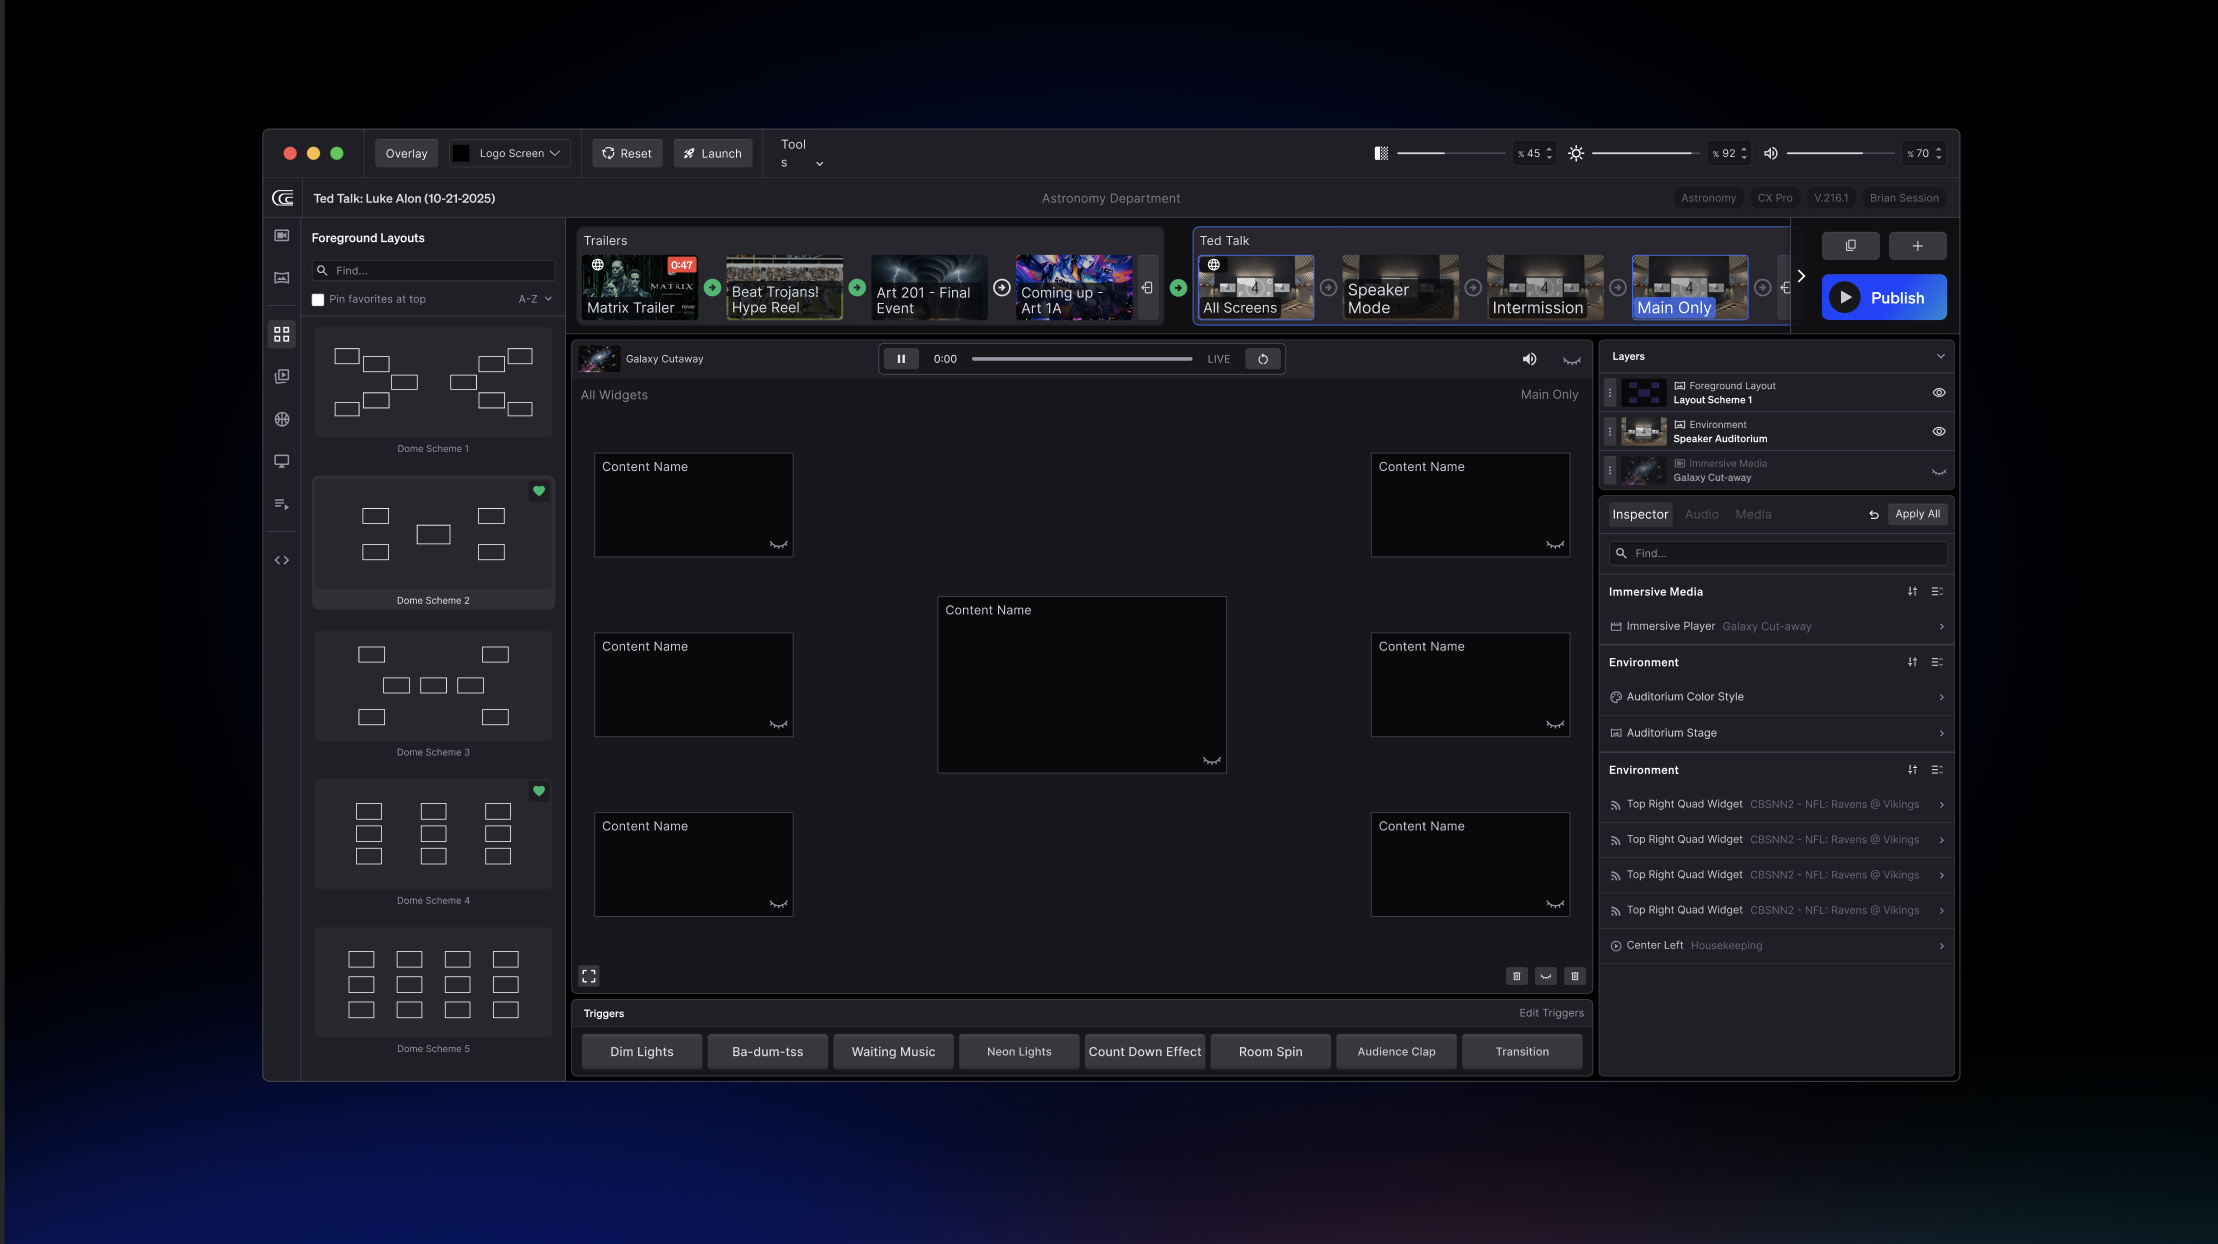
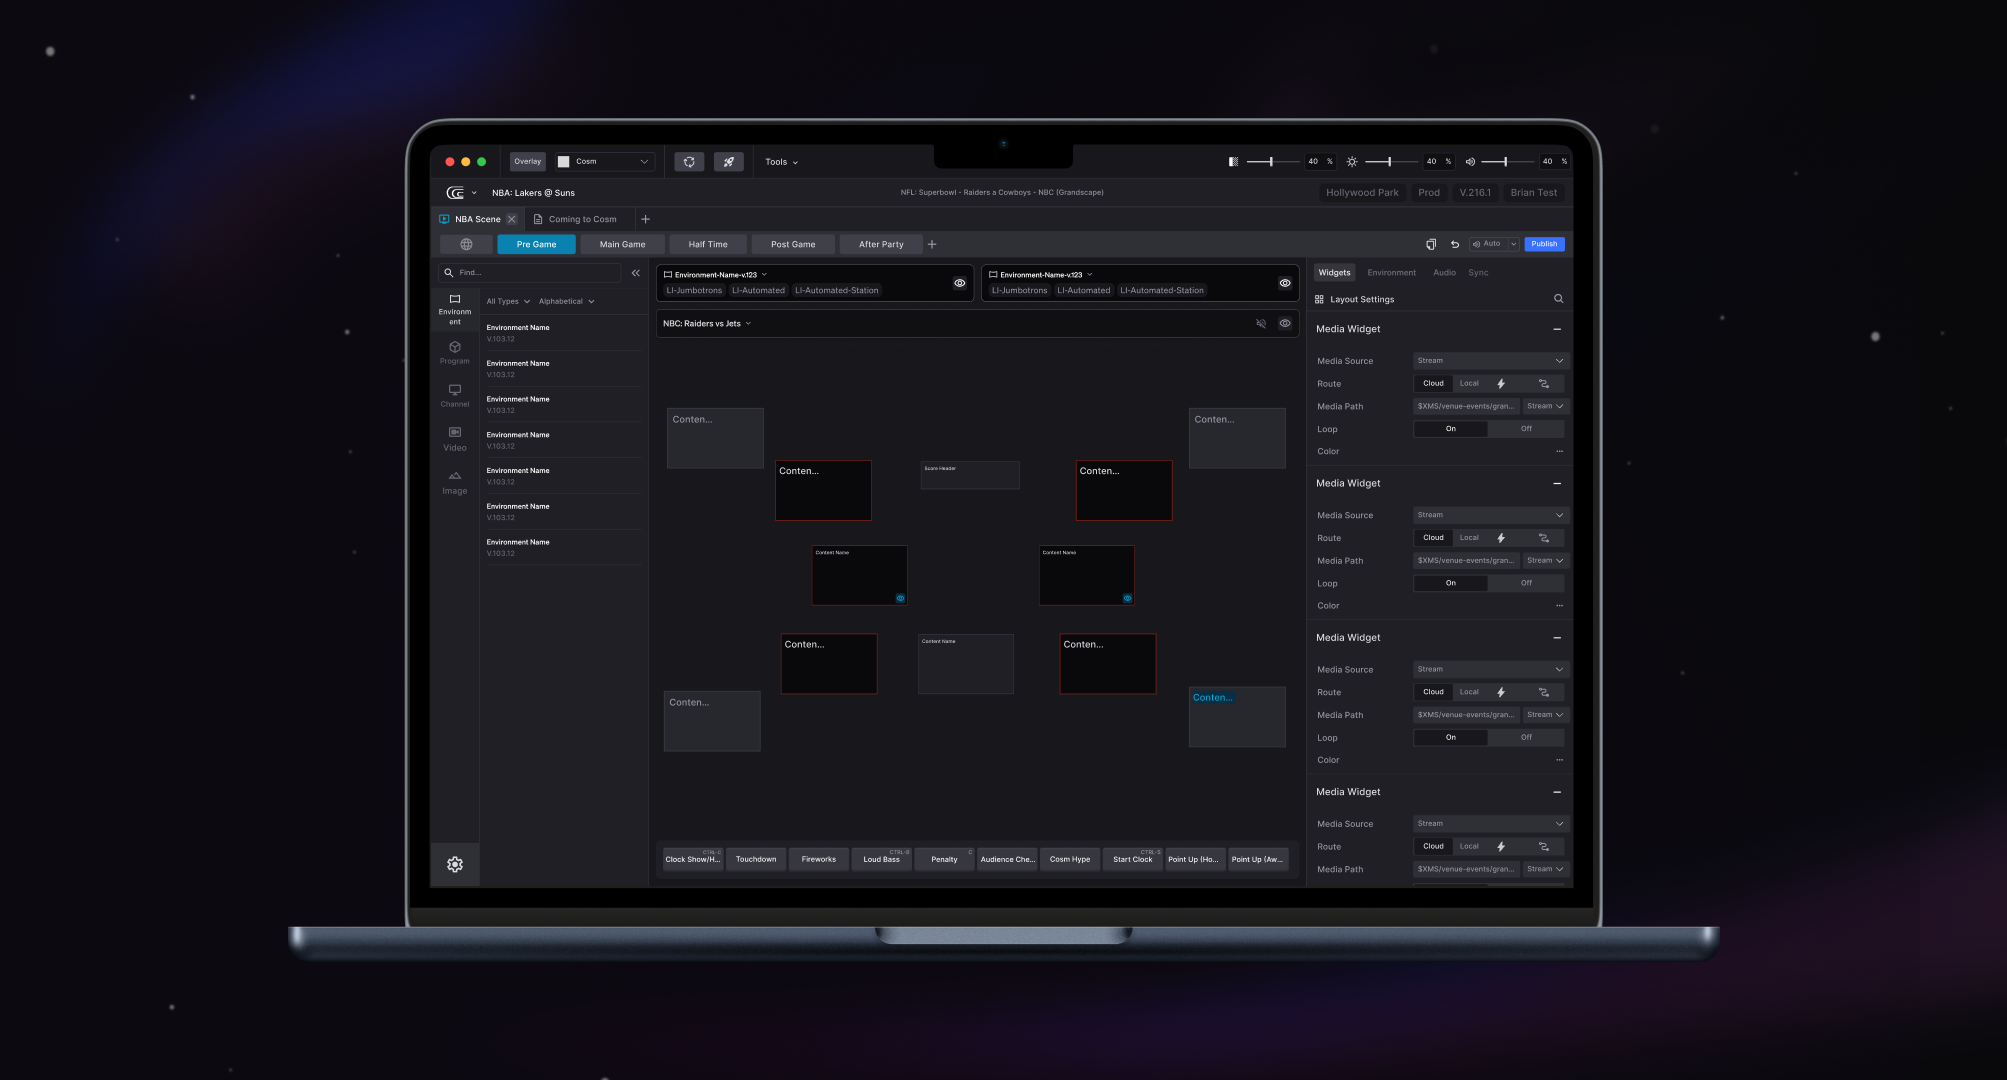
Update CX Pro C2C cover and trim post-Impact case study content.

diff --git a/src/pages/CxProPage.tsx b/src/pages/CxProPage.tsx
@@ -1000,220 +1000,7 @@ export default function CxProPage({ embedded = false }: CxProPageProps = {}) {
           </div>
         </section>
 
-        {/* 35. Header section: Icon + "User Research" + sub-header */}
-        <div className="cx-section">        <div className="cx-block">
-          <div className="cx-block__col1" />
-          <div className="cx-block__col2">
-            <div className="cx-header-section">
-              <div className="cx-header-section__icon">
-                <svg className="cx-header-section__icon-svg" xmlns="http://www.w3.org/2000/svg" viewBox="0 -960 960 960" width="24" height="24" fill="#000" aria-hidden><path d="M824-80 716-188q-22 13-46 20.5t-50 7.5q-75 0-127.5-52.5T440-340q0-75 52.5-127.5T620-520q75 0 127.5 52.5T800-340q0 26-7.5 50T772-244l108 108-56 56ZM691-269q29-29 29-71t-29-71q-29-29-71-29t-71 29q-29 29-29 71t29 71q29 29 71 29t71-29Zm149-291h-80v-200h-80v120H280v-120h-80v560h200v80H200q-33 0-56.5-23.5T120-200v-560q0-33 23.5-56.5T200-840h167q11-35 43-57.5t70-22.5q40 0 71.5 22.5T594-840h166q33 0 56.5 23.5T840-760v200ZM508.5-771.5Q520-783 520-800t-11.5-28.5Q497-840 480-840t-28.5 11.5Q440-817 440-800t11.5 28.5Q463-760 480-760t28.5-11.5Z"/></svg>
-              </div>
-              <div className="cx-header-section__title">
-                <h2 className="header-1">User Research</h2>
-              </div>
-              <div className="cx-header-section__sub">
-                <p className="sub-header-1">Getting granular with user understanding to prepare for an external launch.</p>
-              </div>
-            </div>
-          </div>
-        </div>
-        </div>
-
-        {/* 36. (2x1) Has divider. Col1: "Auditing Use Cases" H2 | Col2: paragraph */}
-        <div className="cx-section">        <div className="cx-block cx-block--divider">
-          <div className="cx-block__col1">
-            <h2 className="header-2">Auditing Use Cases</h2>
-          </div>
-          <div className="cx-block__col2 cx-stack">
-            <p className="paragraph-text">
-              At this time CX Pro was running in a smooth state for internal use. Now, we needed to prepare for an external B2B launch, where use-cases were undefined. The most glaring uncertainty we had about usability is that all of our users were paid team members, meaning all of our users were power-users with advanced use-cases (running enterprise-level shows). In short, we needed to anticipate usability pitfalls for future clients with unknown workflows and unknown user types. While product was investigating more about prospective clients, I worked with what I had by getting creating journey maps of current workflows that existed to gain a holisitic view of current painpoints.
-            </p>
-          </div>
-        </div>
-        </div>
-
-        {/* 37. Full width image */}
-        <div className="cx-section">        <div className="cx-full-width">
-          <ImgWithLoader src={`${CX_IMAGES}/37.png`} alt="" className="cx-img-openable" onClick={() => openLightbox([`${CX_IMAGES}/37.png`], 0)} role="button" tabIndex={0} onKeyDown={(e) => e.key === 'Enter' && openLightbox([`${CX_IMAGES}/37.png`], 0)} />
-        </div>
-        </div>
-
-        {/* 38. (2x1) Has divider. Col1: "Understanding New Users" H2 | Col2: paragraph + 2 images horizontal */}
-        <div className="cx-section">        <div className="cx-block cx-block--divider">
-          <div className="cx-block__col1">
-            <h2 className="header-2">Understanding New Users</h2>
-          </div>
-          <div className="cx-block__col2 cx-stack">
-            <p className="paragraph-text">
-              From product investigations, we learned that our prosepctive clients were likely to be: Many will be from academic instutions. Mostly casual users. A sprinkle of advanced users. I hypothesized the best way to learn about casual users was to focus on the new user experience. So, I conducted user interviews with the newest members of our operator teams. <strong>What I found:</strong> Workflow usability was high, but the learning curve of CX Pro concepts was low.
-            </p>
-            <div className="cx-two-images cx-two-images--stacked">
-              <ImgWithLoader src={`${CX_IMAGES}/38.1.png`} alt="" className="cx-img-openable" onClick={() => openLightbox([`${CX_IMAGES}/38.1.png`, `${CX_IMAGES}/38.2.png`], 0)} role="button" tabIndex={0} onKeyDown={(e) => e.key === 'Enter' && openLightbox([`${CX_IMAGES}/38.1.png`, `${CX_IMAGES}/38.2.png`], 0)} />
-              <ImgWithLoader src={`${CX_IMAGES}/38.2.png`} alt="" className="cx-img-openable" onClick={() => openLightbox([`${CX_IMAGES}/38.1.png`, `${CX_IMAGES}/38.2.png`], 1)} role="button" tabIndex={0} onKeyDown={(e) => e.key === 'Enter' && openLightbox([`${CX_IMAGES}/38.1.png`, `${CX_IMAGES}/38.2.png`], 1)} />
-            </div>
-          </div>
-        </div>
-        </div>
-
-        {/* 39. Header section: Icon + "Designing for B2B2C" + sub-header */}
-        <div className="cx-section">        <div className="cx-block">
-          <div className="cx-block__col1" />
-          <div className="cx-block__col2">
-            <div className="cx-header-section">
-              <div className="cx-header-section__icon">
-                <svg className="cx-header-section__icon-svg" xmlns="http://www.w3.org/2000/svg" viewBox="0 -960 960 960" width="24" height="24" fill="#000" aria-hidden><path d="m270-120-10-88 114-314q15 14 32.5 23.5T444-484L334-182l-64 62Zm420 0-64-62-110-302q20-5 37.5-14.5T586-522l114 314-10 88ZM395-555q-35-35-35-85 0-39 22.5-69.5T440-752v-88h80v88q35 12 57.5 42.5T600-640q0 50-35 85t-85 35q-50 0-85-35Zm113.5-56.5Q520-623 520-640t-11.5-28.5Q497-680 480-680t-28.5 11.5Q440-657 440-640t11.5 28.5Q463-600 480-600t28.5-11.5Z"/></svg>
-              </div>
-              <div className="cx-header-section__title">
-                <h2 className="header-1">Designing for B2B2C</h2>
-              </div>
-              <div className="cx-header-section__sub">
-                <p className="sub-header-1">Created a North Star for CX Pro and scaled back to deliver on early 2026 goal.</p>
-              </div>
-            </div>
-          </div>
-        </div>
-        </div>
-
-        {/* 40. (2x1) Has divider. Col1: "Finding our North Star" H2 | Col2: paragraph + image – hidden in preview */}
-        {!embedded && (
-        <div className="cx-section">        <div className="cx-block cx-block--divider">
-          <div className="cx-block__col1">
-            <h2 className="header-2">Finding our North Star</h2>
-          </div>
-          <div className="cx-block__col2 cx-stack">
-            <p className="paragraph-text">
-              To set us up for success with a casual user base, we had to address the problem: <strong>Problem Statement:</strong> How can we conceptually simplify CX Pro workflows so that newer users can successfully run shows without much learning? <strong>Process: Blue-Sky Exploration → User Validation</strong> - Explored more familiar interfaces - Explored different ways to visualize CX Pro concepts (scenes, publishing, layers) - Break up workflows of building a show vs Running a Show - Do one thing at a time
-            </p>
-            <div className="cx-full-width">
-              <ImgWithLoader src={`${CX_IMAGES}/40.png`} alt="" className="cx-img-openable" onClick={() => openLightbox([`${CX_IMAGES}/40.png`], 0)} role="button" tabIndex={0} onKeyDown={(e) => e.key === 'Enter' && openLightbox([`${CX_IMAGES}/40.png`], 0)} />
-            </div>
-          </div>
-        </div>
-        </div>
-        )}
-
-        {/* 41. (2x1) Has divider. Col1: "Scaling it back" H2 | Col2: paragraph + image – hidden in preview */}
-        {!embedded && (
-        <div className="cx-section">        <div className="cx-block cx-block--divider">
-          <div className="cx-block__col1">
-            <h2 className="header-2">Scaling it back</h2>
-          </div>
-          <div className="cx-block__col2 cx-stack">
-            <p className="paragraph-text">
-              The mock above, albeit not the prettiest, garned a huge postive reaction from our user base. "If you can only build one thing now, I would want this" — S.S., Lead Operator. While this raised eyebrows in the Product Team, we ultimately decided to walk before we run and integrate elements of a more visual tool into the current controller, with the plan to iterate towards a more split view of the controller.
-            </p>
-            <div className="cx-full-width">
-              <ImgWithLoader src={`${CX_IMAGES}/41.png`} alt="" className="cx-img-openable" onClick={() => openLightbox([`${CX_IMAGES}/41.png`], 0)} role="button" tabIndex={0} onKeyDown={(e) => e.key === 'Enter' && openLightbox([`${CX_IMAGES}/41.png`], 0)} />
-            </div>
-          </div>
-        </div>
-        </div>
-        )}
-
-        {/* 42. Header section: Icon + "Version 3.0" + sub-header */}
-        <div className="cx-section">        <div className="cx-block">
-          <div className="cx-block__col1" />
-          <div className="cx-block__col2">
-            <div className="cx-header-section">
-              <div className="cx-header-section__icon">
-                <svg className="cx-header-section__icon-svg" xmlns="http://www.w3.org/2000/svg" viewBox="0 -960 960 960" width="24" height="24" fill="#000" aria-hidden><path d="M360-720h80v-80h-80v80Zm160 0v-80h80v80h-80ZM360-400v-80h80v80h-80Zm320-160v-80h80v80h-80Zm0 160v-80h80v80h-80Zm-160 0v-80h80v80h-80Zm160-320v-80h80v80h-80Zm-240 80v-80h80v80h-80ZM200-160v-640h80v80h80v80h-80v80h80v80h-80v320h-80Zm400-320v-80h80v80h-80Zm-160 0v-80h80v80h-80Zm-80-80v-80h80v80h-80Zm160 0v-80h80v80h-80Zm80-80v-80h80v80h-80Z"/></svg>
-              </div>
-              <div className="cx-header-section__title">
-                <h2 className="header-1">Version 3.0</h2>
-              </div>
-              <div className="cx-header-section__sub">
-                <p className="sub-header-1">B2B2C Launch Candidate</p>
-              </div>
-            </div>
-          </div>
-        </div>
-        </div>
-
-        {/* 43. (2x1) Has divider. Col1: "Conceptually Simplifying" H2 | Col2: numbered list */}
-        <div className="cx-section">        <div className="cx-block cx-block--divider">
-          <div className="cx-block__col1">
-            <h2 className="header-2">Conceptually Simplifying</h2>
-          </div>
-          <div className="cx-block__col2 cx-stack">
-            <p className="paragraph-text">I conceptually simplified CX Pro by:</p>
-            <ol className="project-list project-list-numbered">
-              <li>Incoroprating scene and layer visualizations</li>
-              <li>Creating an opt-in approach to global controls (parent/child scenes) by re-working how scenes are structured so users are not forced into advanced functionality</li>
-              <li>Re-working how our layers were visualized in a familiar top-down layering menu</li>
-              <li>Worked with unreal engineers & front end-engineers to classify properties and automate a filtering system so that only the simplest properties are shown</li>
-              <li>Utilized interaction design to teach users about nuanced layer differences</li>
-            </ol>
-          </div>
-        </div>
-        </div>
-
-        {/* 44. Full width image (stacks above grey overlap below) */}
-        <div className="cx-section cx-section--above-gray-overlap">          <div className="cx-full-width">
-            <ImgWithLoader src={`${CX_IMAGES}/44.png`} alt="" className="cx-img-openable" onClick={() => openLightbox([`${CX_IMAGES}/44.png`], 0)} role="button" tabIndex={0} onKeyDown={(e) => e.key === 'Enter' && openLightbox([`${CX_IMAGES}/44.png`], 0)} />
-          </div>
-        </div>
-
         </>
-        )}
-
-        {/* ----- Section: Projected Impact / Revenue (45-47) – hidden in preview ----- */}
-        {!embedded && (
-        <section className="cx-section-gray cx-section-gray--overlap-prev">
-          {/* XL header: "Projected Impact" – col1 empty, col2 XL text only */}
-          <div className="cx-section cx-header-xl-section cx-header-xl-section--projected-impact">          <div className="cx-block">
-            <div className="cx-block__col1" />
-            <div className="cx-block__col2">
-              <h2 className="header-xl">Projected Impact</h2>
-            </div>
-          </div>
-          </div>
-
-          {/* 46. (2x1) Has divider. Col1: "Revenue Outlook" H2 | Col2: paragraph + 2-line revenue block */}
-          <div className="cx-section">          <div className="cx-block cx-block--divider">
-            <div className="cx-block__col1">
-              <h2 className="header-2">Revenue Outlook</h2>
-            </div>
-            <div className="cx-block__col2 cx-stack">
-              <p className="paragraph-text">
-                Given CX Pro's strong usability performance in Cosm venues, leadership chose to replace Digistar—a 40-year legacy tool—with CX Pro as the primary operating software for external clients. Because CX Pro was built from a user-centric foundation, the Sales team can now position it as a key differentiator: a modern live-production platform capable of supporting any show or broadcast schedule, from simple to highly complex.
-              </p>
-              <div className="cx-revenue-block">
-                <span className="cx-line1">Over the next 5 years</span>
-                <span className="cx-line2">$X-XX Million in Revenue</span>
-              </div>
-            </div>
-          </div>
-          </div>
-
-          {/* 47. Carousel */}
-          <div className="cx-section">            <div className="cx-carousel-bleed cx-carousel-bleed--large-cards">
-              <CxCarousel
-                items={[
-                  { id: '47.1', imageUrl: `${CX_IMAGES}/47.1.png` },
-                  { id: '47.2', imageUrl: `${CX_IMAGES}/47.2.png` },
-                  { id: '47.3', imageUrl: `${CX_IMAGES}/47.3.png` },
-                  { id: '47.4', imageUrl: `${CX_IMAGES}/47.4.png` },
-                  { id: '47.5', imageUrl: `${CX_IMAGES}/47.5.png` },
-                  { id: '47.6', imageUrl: `${CX_IMAGES}/47.6.png` },
-                  { id: '47.7', imageUrl: `${CX_IMAGES}/47.7.png` },
-                  { id: '47.8', imageUrl: `${CX_IMAGES}/47.8.png` },
-                  { id: '47.9', imageUrl: `${CX_IMAGES}/47.9.png` },
-                  { id: '47.10', imageUrl: `${CX_IMAGES}/47.10.png` },
-                  { id: '47.11', imageUrl: `${CX_IMAGES}/47.11.png` },
-                  { id: '47.12', imageUrl: `${CX_IMAGES}/47.12.png` },
-                  { id: '47.13', imageUrl: `${CX_IMAGES}/47.13.png` },
-                  { id: '47.14', imageUrl: `${CX_IMAGES}/47.14.png` },
-                  { id: '47.15', imageUrl: `${CX_IMAGES}/47.15.png` },
-                  { id: '47.16', imageUrl: `${CX_IMAGES}/47.16.png` },
-                ]}
-                onOpenLightbox={openLightbox}
-                cardWidth={CX_CAROUSEL_SECTION6_CARD_WIDTH}
-                cardGap={CX_CAROUSEL_SECTION6_GAP}
-              />
-            </div>
-          </div>
-
-        </section>
         )}
 
         {!embedded && (
